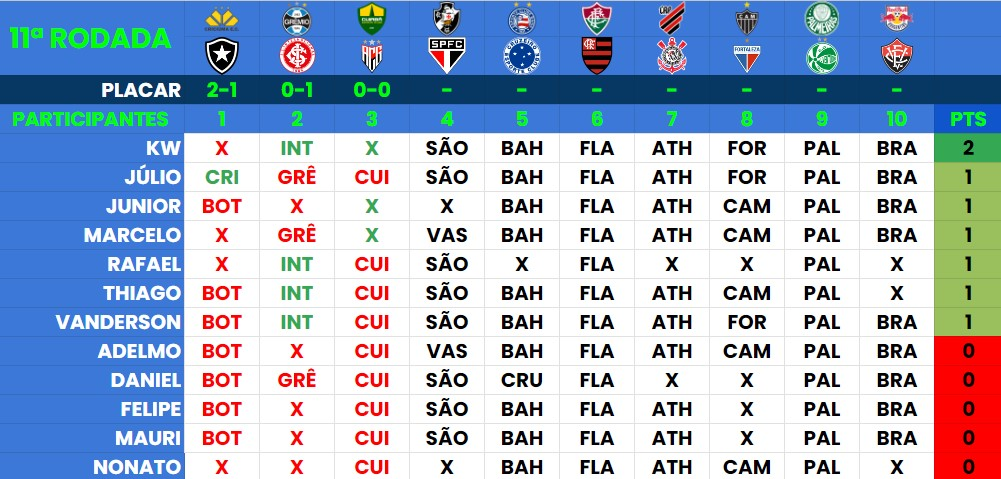
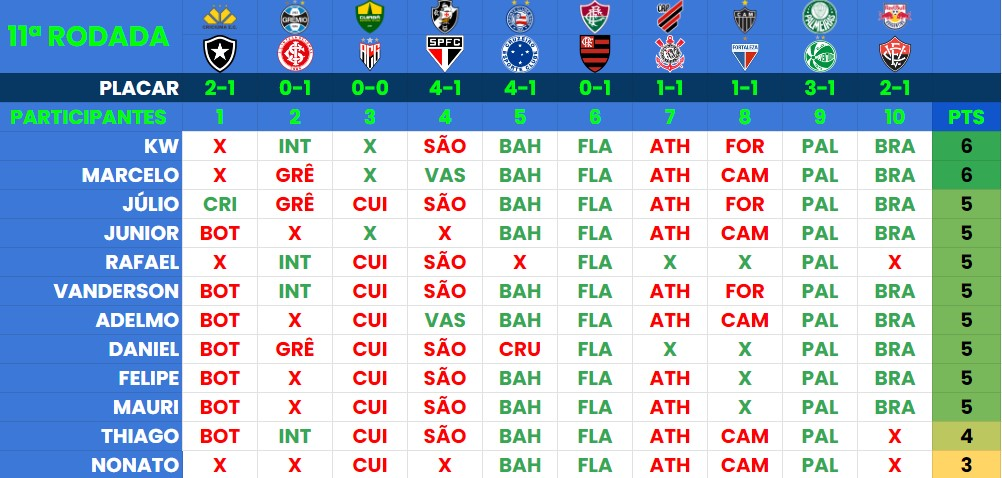
U

diff --git a/index.html b/index.html
@@ -51,10 +51,10 @@
           <img src="./assets/Round11.jpg" alt="Logo do Campeonato Brasileiro 2022" />
         </div>
         <div class="text">
-          <h2 class="title"><a href="./predictor.html">MERCADO FECHADO!</a>
+          <h2 class="title"><a href="./predictor.html">KW e Marcelo vencem a Rodada 11 com seis pontos</a>
           </h2>
           <p>
-            Bola rolando pela 11ª Rodada
+            KW assume a liderança juntamente com Júnior com 54 pontos cada.
           </p>
           <a class="button" href="./predictor.html">Resumo da 11ª Rodada</a>
         </div>
@@ -177,17 +177,7 @@
           <div class="content">
             <h2 class="rank"><small>#</small>1</h2>
             <h4>Júnior</h4>
-            <p>49 Pontos</p>
-          </div>
-        </div>
-        <div class="list">
-          <div class="imgBx">
-            <img src="./assets/fotos/santacruz.png">
-          </div>
-          <div class="content">
-            <h2 class="rank"><small>#</small>2</h2>
-            <h4>Adelmo</h4>
-            <p>48 Pontos</p>
+            <p>54 Pontos</p>
           </div>
         </div>
         <div class="list">
@@ -195,9 +185,19 @@
             <img src="./assets/fotos/fortaleza.png">
           </div>
           <div class="content">
-            <h2 class="rank"><small>#</small>3</h2>
+            <h2 class="rank"><small>#</small>2</h2>
             <h4>KW</h4>
-            <p>48 Pontos</p>
+            <p>54 Pontos</p>
+          </div>
+        </div>
+        <div class="list">
+          <div class="imgBx">
+            <img src="./assets/fotos/santacruz.png">
+          </div>
+          <div class="content">
+            <h2 class="rank"><small>#</small>3</h2>
+            <h4>Adelmo</h4>
+            <p>53 Pontos</p>
           </div>
         </div>
         <div class="list">
@@ -207,7 +207,7 @@
           <div class="content">
             <h2 class="rank"><small>#</small>4</h2>
             <h4>Marcelo</h4>
-            <p>45 Pontos</p>
+            <p>51 Pontos</p>
           </div>
         </div>
         <div class="list">
@@ -217,7 +217,7 @@
           <div class="content">
             <h2 class="rank"><small>#</small>5</h2>
             <h4>Rafael</h4>
-            <p>45 Pontos</p>
+            <p>50 Pontos</p>
           </div>
         </div>
         <div class="list">
@@ -227,7 +227,7 @@
           <div class="content">
             <h2 class="rank"><small>#</small>6</h2>
             <h4>Thiago</h4>
-            <p>44 Pontos</p>
+            <p>48 Pontos</p>
           </div>
         </div>
         <div class="list">
@@ -237,7 +237,7 @@
           <div class="content">
             <h2 class="rank"><small>#</small>7</h2>
             <h4>Júlio César</h4>
-            <p>43 Pontos</p>
+            <p>48 Pontos</p>
           </div>
         </div>
         <div class="list">
@@ -247,17 +247,7 @@
           <div class="content">
             <h2 class="rank"><small>#</small>8</h2>
             <h4>Daniel</h4>
-            <p>42 Pontos</p>
-          </div>
-        </div>
-        <div class="list">
-          <div class="imgBx">
-            <img src="./assets/fotos/ceará.png">
-          </div>
-          <div class="content">
-            <h2 class="rank"><small>#</small>9</h2>
-            <h4>Nonato</h4>
-            <p>40 Pontos</p>
+            <p>47 Pontos</p>
           </div>
         </div>
         <div class="list">
@@ -265,9 +255,9 @@
             <img src="./assets/fotos/santos.png">
           </div>
           <div class="content">
-            <h2 class="rank"><small>#</small>10</h2>
+            <h2 class="rank"><small>#</small>9</h2>
             <h4>Felipe</h4>
-            <p>40 Pontos</p>
+            <p>45 Pontos</p>
           </div>
         </div>
         <div class="list">
@@ -275,9 +265,19 @@
             <img src="./assets/fotos/fortaleza.png">
           </div>
           <div class="content">
-            <h2 class="rank"><small>#</small>11</h2>
+            <h2 class="rank"><small>#</small>10</h2>
             <h4>Mauri</h4>
-            <p>40 Pontos</p>
+            <p>45 Pontos</p>
+          </div>
+        </div>
+        <div class="list">
+          <div class="imgBx">
+            <img src="./assets/fotos/ceará.png">
+          </div>
+          <div class="content">
+            <h2 class="rank"><small>#</small>11</h2>
+            <h4>Nonato</h4>
+            <p>43 Pontos</p>
           </div>
         </div>
         <div class="list">
@@ -287,7 +287,7 @@
           <div class="content">
             <h2 class="rank"><small>#</small>12</h2>
             <h4>Vanderson</h4>
-            <p>37 Pontos</p>
+            <p>42 Pontos</p>
           </div>
         </div>
       </div>
